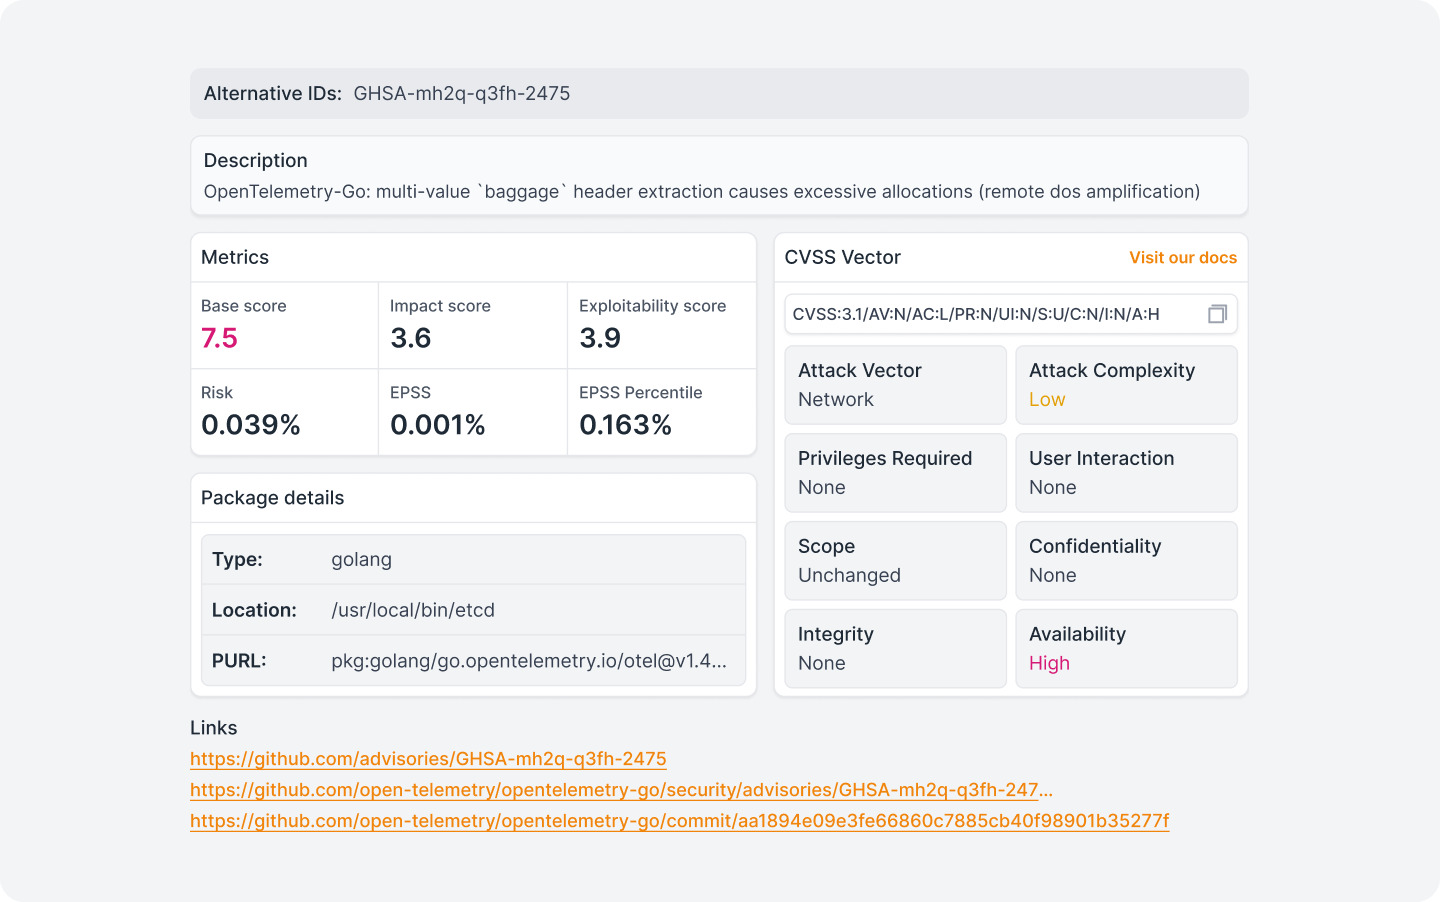
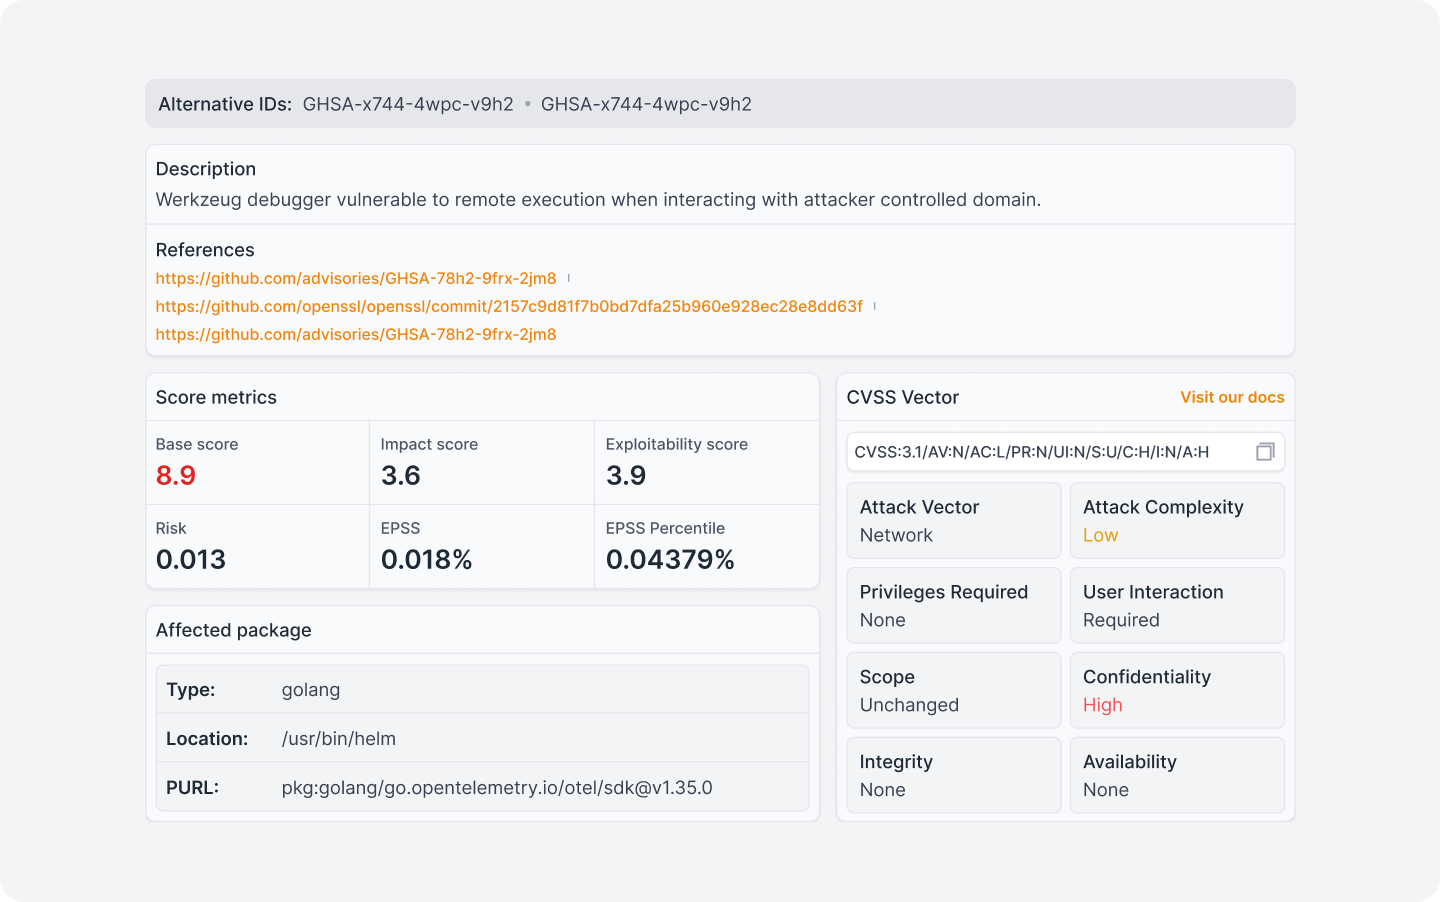
refactor: changes vulnerability attribute images

diff --git a/docs/vulnerability-attributes.en.md b/docs/vulnerability-attributes.en.md
@@ -26,7 +26,7 @@ Secondary identifier of the vulnerability in a database different from the one t
 
 ![][image2]
 
-## **Description**
+## **Description & References**
 
 A direct text describing the behavior of the vulnerability: what is affected; how the problem manifests; and what the impact vector is, in natural language. The description comes from the original source: GHSA, NVD, or the package maintainer itself.
 
@@ -206,17 +206,10 @@ Measures the impact on the availability of the impacted component. Unlike C and 
 
 **None (N):** There is no impact on availability in the impacted component.
 
-## **Links**
-
-References to the primary sources of the vulnerability: original advisory (GHSA or NVD), pull requests and fix commits in the project's repository, and release tag with the fixed version. The links are provided by the source of the record and may vary depending on the availability of public information about the CVE.
-
-![][image8]
-
 [image1]: assets/vulnerability-attributes/cve-details-all-datas.png
 [image2]: assets/vulnerability-attributes/cve-details-alternative-ids.png
-[image3]: assets/vulnerability-attributes/cve-details-description.png
+[image3]: assets/vulnerability-attributes/descriptions-and-references.png
 [image4]: assets/vulnerability-attributes/cve-details-metrics.png
-[image5]: assets/vulnerability-attributes/cve-details-package-details.png
+[image5]: assets/vulnerability-attributes/cve-details-affected-packages.png
 [image6]: assets/vulnerability-attributes/cve-details-cvss-vector.png
 [image7]: assets/vulnerability-attributes/CVSS/base-group.png
-[image8]: assets/vulnerability-attributes/cve-details-cvss-links.png

diff --git a/docs/vulnerability-attributes.pt.md b/docs/vulnerability-attributes.pt.md
@@ -26,7 +26,7 @@ Identificador secundário da vulnerabilidade em uma base de dados diferente da q
 
 ![][image2] 
 
-## **Descrição**
+## **Descrição & Referências**
 
 Texto direto sobre o comportamento da vulnerabilidade: o que é afetado; como o problema se manifesta; e qual o vetor de impacto em linguagem natural. A descrição vem da fonte original: GHSA, NVD ou do próprio mantenedor do pacote.
 
@@ -206,17 +206,10 @@ Mede o impacto à disponibilidade do componente impactado. Diferente de C e I, q
 
 **None (N):** Não há impacto à disponibilidade no componente impactado.
 
-## **Links**
-
-Referências às fontes primárias da vulnerabilidade: advisory original (GHSA ou NVD), pull requests e commits de correção no repositório do projeto, e release tag com a versão corrigida. Os links são providos pela fonte do registro e podem variar conforme a disponibilidade de informação pública sobre a CVE.
-
-![][image8]
-
 [image1]: assets/vulnerability-attributes/cve-details-all-datas.png
 [image2]: assets/vulnerability-attributes/cve-details-alternative-ids.png
-[image3]: assets/vulnerability-attributes/cve-details-description.png
+[image3]: assets/vulnerability-attributes/descriptions-and-references.png
 [image4]: assets/vulnerability-attributes/cve-details-metrics.png
-[image5]: assets/vulnerability-attributes/cve-details-package-details.png
+[image5]: assets/vulnerability-attributes/cve-details-affected-packages.png
 [image6]: assets/vulnerability-attributes/cve-details-cvss-vector.png
 [image7]: assets/vulnerability-attributes/CVSS/base-group.png
-[image8]: assets/vulnerability-attributes/cve-details-cvss-links.png
